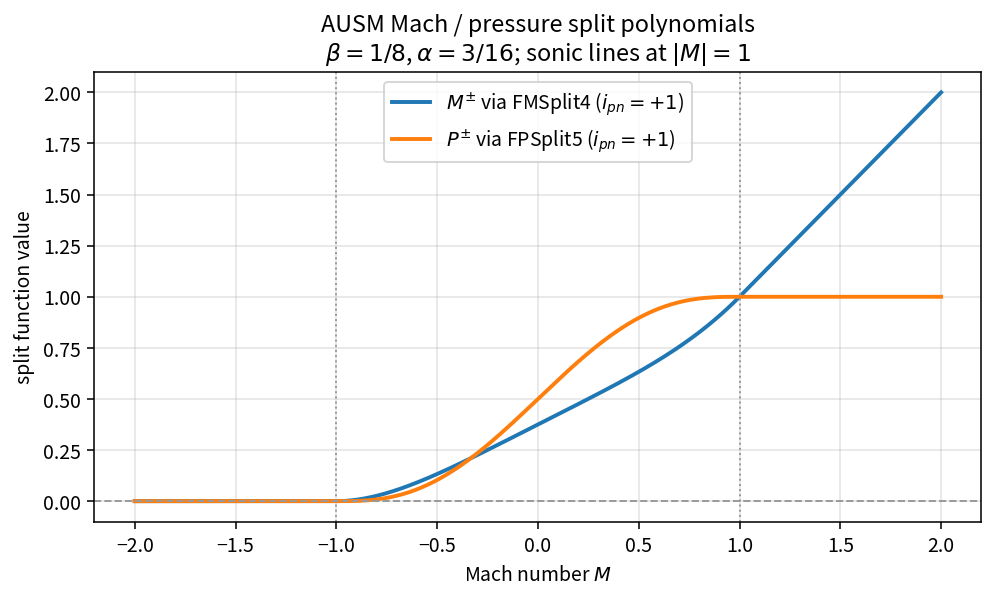
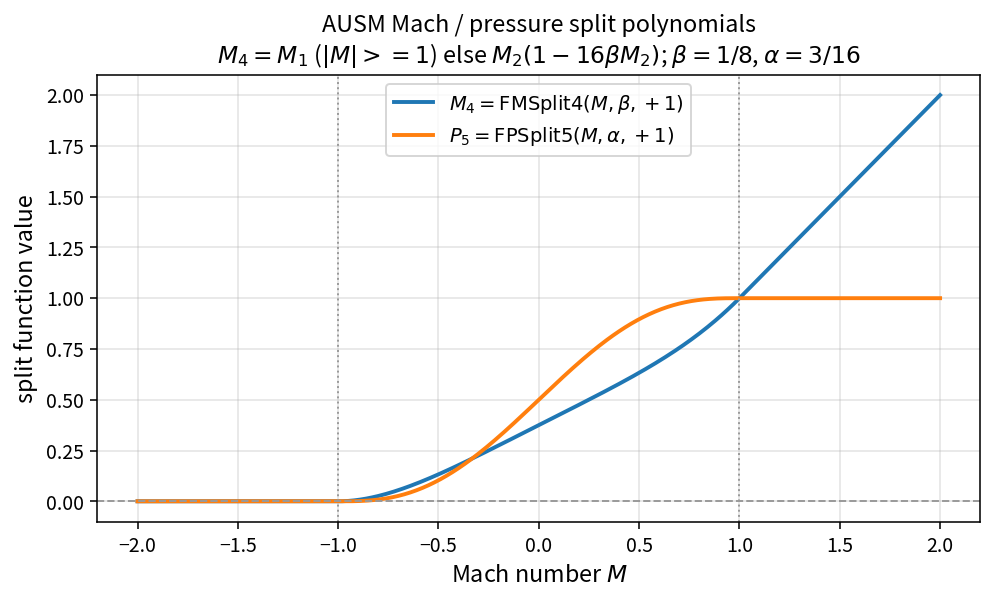
docs(verification): expand AUSM FMSplit4/FPSplit5 formulas in catalog

diff --git a/tools/verification/curve_catalog.py b/tools/verification/curve_catalog.py
@@ -933,21 +933,29 @@ def list_theory_entries() -> list[TheoryEntry]:
             section="flux / AUSM splits",
             title="AUSM Mach and pressure split (FMSplit4 / FPSplit5)",
             role_tags=("flux", "AUSM", "Mach-split"),
-            formula_plain=(
-                "FMSplit1 = 0.5*(M + ipn*|M|)\n"
-                "FMSplit2 = ipn*0.25*(M+ipn)^2\n"
-                "FMSplit4 = FMSplit1 if |M|>=1 else "
-                "FMSplit2*(1 - ipn*16*beta*FMSplit2(M,-ipn))\n"
-                "FPSplit5 = 0.5*(1 + ipn*M/|M|) if |M|>=1 else "
-                "FMSplit2*((2*ipn-M) - ipn*16*alpha*M*FMSplit2(M,-ipn))\n"
-                "beta=1/8, alpha=3/16 typical"
+                        formula_plain=(
+                "M1(M,s) = 0.5 * (M + s*|M|)\n"
+                "M2(M,s) = s * 0.25 * (M + s)^2\n"
+                "FMSplit4(M,beta,s):\n"
+                "  |M| >= 1  ->  M1(M,s)\n"
+                "  |M| <  1  ->  M2(M,s) * (1 - s*16*beta*M2(M,-s))\n"
+                "FPSplit5(M,alpha,s):\n"
+                "  |M| >= 1  ->  0.5 * (1 + s*M/|M|)\n"
+                "  |M| <  1  ->  M2(M,s) * ((2*s - M) - s*16*alpha*M*M2(M,-s))\n"
+                "s = ipn = +/-1;  beta = 1/8;  alpha = 3/16 (typical AUSM)"
             ),
-            formula_latex=(
-                r"M^{\pm}=\mathrm{FMSplit4}(M,\beta,i_{pn})"
+                        formula_latex=(
+                r"M_1=\frac{1}{2}(M+s|M|),\quad M_2=s\frac{1}{4}(M+s)^{2}"
                 "\n"
-                r"P^{\pm}=\mathrm{FPSplit5}(M,\alpha,i_{pn})"
+                r"M^{\pm}_{4}=M_1\ (|M|>=1);\ "
+                r"M_2\bigl(1-s\,16\beta M_2(M,-s)\bigr)\ (|M|<1)"
+                "\n"
+                r"P^{\pm}_{5}=\frac{1}{2}(1+s M/|M|)\ (|M|>=1);\ "
+                r"M_2\bigl((2s-M)-s\,16\alpha M\,M_2(M,-s)\bigr)\ (|M|<1)"
+                "\n"
+                r"s=i_{pn}=\pm 1,\ \beta=\frac{1}{8},\ \alpha=\frac{3}{16}"
             ),
-            principle=(
+principle=(
                 "AUSM splits mass and pressure contributions using smooth "
                 "polynomials in the subsonic range and upwind steps outside "
                 "the sonic interval."
@@ -969,9 +977,15 @@ def list_theory_entries() -> list[TheoryEntry]:
             doc_relpath="doc/source/numerical/ausm_mach_split.rst",
             code_sketch=(
                 "// GATED SKETCH — production is inline in NsInvFluxPolicy.h\n"
-                "Real FMSplit4(Real M, Real beta, Real ipn) {\n"
-                "  if (fabs(M) >= 1) return FMSplit1(M, ipn);\n"
-                "  return FMSplit2(M, ipn) * (1 - ipn*16*beta*FMSplit2(M, -ipn));\n"
+                "Real FMSplit1(M,s){ return 0.5*(M + s*fabs(M)); }\n"
+                "Real FMSplit2(M,s){ return s*0.25*(M+s)*(M+s); }\n"
+                "Real FMSplit4(M,beta,s){\n"
+                "  if (fabs(M)>=1) return FMSplit1(M,s);\n"
+                "  return FMSplit2(M,s)*(1 - s*16*beta*FMSplit2(M,-s));\n"
+                "}\n"
+                "Real FPSplit5(M,alpha,s){\n"
+                "  if (fabs(M)>=1) return 0.5*(1 + s*M/(fabs(M)+eps));\n"
+                "  return FMSplit2(M,s)*((2*s-M) - s*16*alpha*M*FMSplit2(M,-s));\n"
                 "}\n"
             ),
             proves="FMSplit4/FPSplit5 closed form vs pure APIs on a Mach grid.",
@@ -998,18 +1012,18 @@ def list_theory_entries() -> list[TheoryEntry]:
             ),
             background=("Pure policy ApplyHartenEntropyFix; tests must match MAX semantics."),
             references=("Harten entropy fix; NsInvFluxPolicy tests",),
-            csv_relpath="tools/verification/data/harten_entropy_fix_theory.csv",
-            plot_module="plot_harten_entropy_fix",
+            csv_relpath=None,
+            plot_module=None,
             pure_apis=("ApplyHartenEntropyFix",),
             source_relpaths=(
                 "codes/ns/include/NsInvFluxPolicy.h",
                 "codes/ns/src/NsInvFluxPolicy.cpp",
             ),
-            doc_relpath="doc/source/numerical/harten_entropy_fix.rst",
+            doc_relpath="doc/source/numerical/index.rst",
             code_sketch=(
                 "// GATED SKETCH - mirror production MAX in tests.\n"
             ),
-            proves="Harten floor algebra vs ApplyHartenEntropyFix on |vn| grid.",
+            proves="Entropy-fix pure policy tests.",
             does_not_prove="Full Roe flux shock-capturing quality.",
         ),
     ]

diff --git a/tools/verification/plot_ausm_mach_split.py b/tools/verification/plot_ausm_mach_split.py
@@ -27,8 +27,8 @@ def main() -> None:
             y4.append(float(row["fmsplit4_plus"]))
             y5.append(float(row["fpsplit5_plus"]))
     fig, ax = plt.subplots(figsize=(7.2, 4.4))
-    ax.plot(xs, y4, lw=2.0, label=r"$M^{\pm}$ via FMSplit4 ($i_{pn}=+1$)")
-    ax.plot(xs, y5, lw=2.0, label=r"$P^{\pm}$ via FPSplit5 ($i_{pn}=+1$)")
+    ax.plot(xs, y4, lw=2.0, label=r"$M_4=\mathrm{FMSplit4}(M,\beta,+1)$")
+    ax.plot(xs, y5, lw=2.0, label=r"$P_5=\mathrm{FPSplit5}(M,\alpha,+1)$")
     ax.axvline(-1.0, color="0.6", ls=":", lw=1)
     ax.axvline(1.0, color="0.6", ls=":", lw=1)
     ax.axhline(0.0, color="0.6", ls="--", lw=1)
@@ -38,7 +38,7 @@ def main() -> None:
             xlabel=r"Mach number $M$",
             ylabel=r"split function value",
             title=r"AUSM Mach / pressure split polynomials",
-            subtitle=r"$\beta=1/8$, $\alpha=3/16$; sonic lines at $|M|=1$",
+            subtitle=r"$M_4=M_1$ ($|M|>=1$) else $M_2(1-16\beta M_2)$; $\beta=1/8$, $\alpha=3/16$",
         )
     else:
         ax.set_xlabel(r"Mach number $M$")

diff --git a/doc/source/numerical/ausm_mach_split.rst b/doc/source/numerical/ausm_mach_split.rst
@@ -11,6 +11,10 @@ as pure inline APIs in ``NsInvFluxPolicy.h``.
 Formulas
 --------
 
+Production names ``FMSplit1``, ``FMSplit2``, ``FMSplit4``, ``FPSplit5``
+implement the following (``s = i_{pn} = \\pm 1``):
+
+
 With interface sign :math:`i_{pn}=\pm 1`, :math:`\beta=1/8`, :math:`\alpha=3/16`:
 
 .. math::
@@ -33,6 +37,14 @@ With interface sign :math:`i_{pn}=\pm 1`, :math:`\beta=1/8`, :math:`\alpha=3/16`
    \tfrac12\bigl(1 + i_{pn} M/|M|\bigr) & |M|\ge 1 \\
    M^{\pm}_2\bigl((2 i_{pn}-M) - i_{pn}\,16\,\alpha\, M\, M^{\mp}_2\bigr) & |M|< 1
    \end{cases}
+
+API mapping
+-----------
+
+* ``FMSplit1(M, s)`` :math:`\\equiv M_1`
+* ``FMSplit2(M, s)`` :math:`\\equiv M_2`
+* ``FMSplit4(M, \\beta, s)`` :math:`\\equiv M^{\\pm}_4` (mass/Mach split)
+* ``FPSplit5(M, \\alpha, s)`` :math:`\\equiv P^{\\pm}_5` (pressure split)
 
 Source map
 ----------
